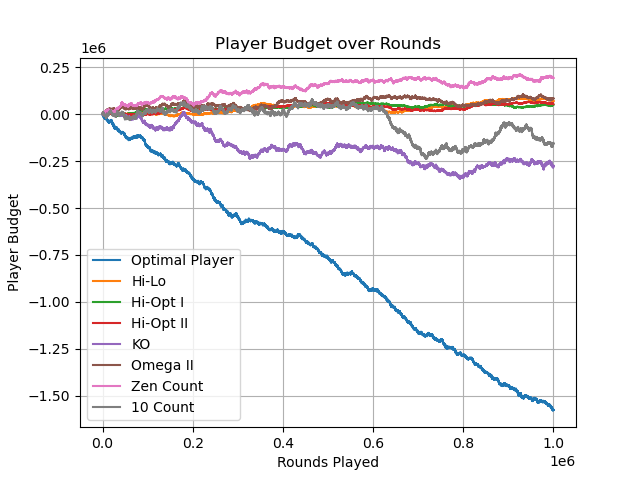
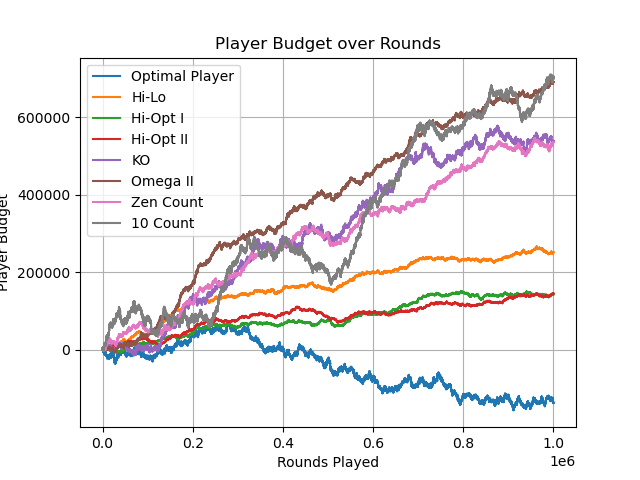
Fixed incorrect bet calculation

diff --git a/dealer.py b/dealer.py
@@ -83,7 +83,7 @@ class Dealer:
                         hands.insert(i+1, [hands[i].pop()])
                         hands[i].append(self.deal(player))
                         hands[i+1].append(self.deal(player))
-                        potential_winnings.insert(i+1, bet)
+                        potential_winnings.insert(i+1, bet*2)
                         player.budget -= bet
                         i += 2
                     else:
@@ -92,7 +92,7 @@ class Dealer:
                         hands.append([hands[i].pop(), self.deal(player)])
                         hands[i].append(self.deal(player))
                         # add bet for the new hand
-                        potential_winnings.append(bet)
+                        potential_winnings.append(bet*2)
                         player.budget -= bet
 
         return (hands, potential_winnings)
